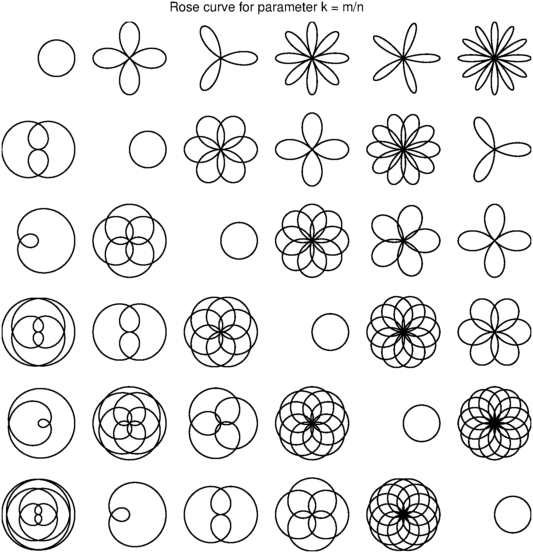
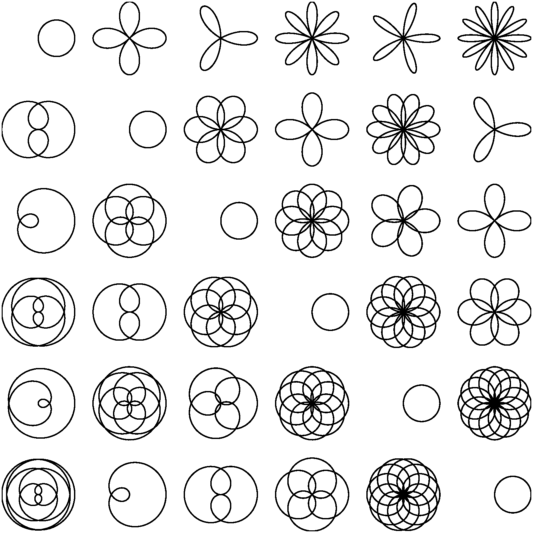
Updating temp/RoseCurves again

diff --git a/examples/temp/img/RoseCurves.html b/examples/temp/img/RoseCurves.html
@@ -2,7 +2,7 @@
 title: "Rose curves"
 layout: example
 authordate: "Hrothgar, June 2014"
-meta: "(Chebfun example geom/RoseCurves.m) [Tags: #sinewaves, #geometry]"
+meta: "(Chebfun example geom/RoseCurves.m) [Tags: #sinewaves, #geometry, #polar]"
 ---
 
 A rose curve is a sinusoid in polar coordinates, that is, $$ r = \sin(k\theta). $$ Rational values of $k$ produce closed curves, while irrational values produce curves of infinite length that fill the unit disc. If $k = 1$, then the result is a circle.
@@ -14,20 +14,38 @@ In order to plot the roses, we will paramatrize them in the complex plane using 
 <pre class="mcode-input">roseCurve = @(m,n) chebfun(@(t) cos(m/n*t).*cos(t)+1i*cos(m/n*t).*sin(t), ...
                            [0, 2*pi*lcm(m,n)]);</pre>Here is the image reproduced.
 
-<pre class="mcode-input">LW = 'linewidth'; lw = 1;
+<pre class="mcode-input">LW = 'linewidth';
 figure('position', [0 0 680 680]), hold on
 N = 6;
 for m = 1:N
     for n = 1:N
         f = roseCurve(m,n);
         offset = 2.5*m - 2.5i*n;
-        plot(f + offset, 'k-', LW, lw)
+        plot(f + offset, 'k-', LW, 1)
+    end
+end
+axis equal tight off</pre><img src="img/RoseCurves_01.png" class="figure" alt="">
+
+And here is a more ambitious image of the same kind, where the patterns along diagonals become clear.
+
+<pre class="mcode-input">tic
+clf, hold on
+N = 12;
+for m = 1:N
+    for n = 1:N
+        f = roseCurve(m,n);
+        offset = 2.5*m - 2.5i*n;
+        plot(f + offset, 'k-', LW, .8)
     end
 end
 axis equal tight off
-title('Rose curve for parameter k = m/n')</pre><img src="img/RoseCurves_01.png" class="figure" alt="">
+time = toc;</pre><img src="img/RoseCurves_02.png" class="figure" alt="">
 
+The above image did not take long to produce:
 
+<pre class="mcode-input">time</pre><pre class="mcode-output">time =
+   5.865927139000000
+</pre>
 
 ## References
 

diff --git a/examples/temp/RoseCurves.html b/examples/temp/RoseCurves.html
@@ -66,20 +66,41 @@
                            [0, 2*pi*lcm(m,n)]);</pre>
 
 <p>Here is the image reproduced.</p>
-<pre class="mcode-input">LW = 'linewidth'; lw = 1;
+<pre class="mcode-input">LW = 'linewidth';
 figure('position', [0 0 680 680]), hold on
 N = 6;
 for m = 1:N
     for n = 1:N
         f = roseCurve(m,n);
         offset = 2.5*m - 2.5i*n;
-        plot(f + offset, 'k-', LW, lw)
+        plot(f + offset, 'k-', LW, 1)
+    end
+end
+axis equal tight off</pre>
+
+<p><img src="img/RoseCurves_01.png" class="figure" alt=""></p>
+<p>And here is a more ambitious image of the same kind, where the patterns along diagonals become clear.</p>
+<pre class="mcode-input">tic
+clf, hold on
+N = 12;
+for m = 1:N
+    for n = 1:N
+        f = roseCurve(m,n);
+        offset = 2.5*m - 2.5i*n;
+        plot(f + offset, 'k-', LW, .8)
     end
 end
 axis equal tight off
-title('Rose curve for parameter k = m/n')</pre>
+time = toc;</pre>
 
-<p><img src="img/RoseCurves_01.png" class="figure" alt=""></p>
+<p><img src="img/RoseCurves_02.png" class="figure" alt=""></p>
+<p>The above image did not take long to produce:</p>
+<pre class="mcode-input">time</pre>
+
+<pre class="mcode-output">time =
+   5.865927139000000
+</pre>
+
 <h3 id="references">References</h3>
 <ol>
 <li><a href="https://en.wikipedia.org/wiki/Rose_curve">https://en.wikipedia.org/wiki/Rose_curve</a></li>

diff --git a/examples/temp/index.html b/examples/temp/index.html
@@ -86,7 +86,7 @@
             <div class='thumbwrapper'><img src='/examples/temp/img/RoseCurves_01.png' /></div>
             <h3>Rose curves</h3>
             <p>Hrothgar, June 2014
-                <span class='tags'><span href='#' class='tag'>#geometry</span>, <span href='#' class='tag'>#sinewaves</span></span>
+                <span class='tags'><span href='#' class='tag'>#geometry</span>, <span href='#' class='tag'>#polar</span>, <span href='#' class='tag'>#sinewaves</span></span>
             </p>
         </a>
     </li>

diff --git a/index.html b/index.html
@@ -194,5 +194,5 @@ plot(minx(1),minx(2),'.w')
     <script type="text/javascript" src="/js/config.js"></script>
     <script type="text/javascript" src="/js/jquery.flexslider-min.js"></script>
   </body>
-<!-- Compiled on Sunday, 22 June 2014 at 17:25. -->
+<!-- Compiled on Sunday, 22 June 2014 at 18:04. -->
 </html>

diff --git a/examples/temp/RoseCurves.m b/examples/temp/RoseCurves.m
@@ -3,7 +3,7 @@
 
 %%
 % (Chebfun example geom/RoseCurves.m)
-% [Tags: #sinewaves, #geometry]
+% [Tags: #sinewaves, #geometry, #polar]
 
 %%
 % A rose curve is a sinusoid in polar coordinates, that is,
@@ -31,18 +31,38 @@ roseCurve = @(m,n) chebfun(@(t) cos(m/n*t).*cos(t)+1i*cos(m/n*t).*sin(t), ...
 %%
 % Here is the image reproduced.
 
-LW = 'linewidth'; lw = 1;
+LW = 'linewidth';
 figure('position', [0 0 680 680]), hold on
 N = 6;
 for m = 1:N
     for n = 1:N
         f = roseCurve(m,n);
         offset = 2.5*m - 2.5i*n;
-        plot(f + offset, 'k-', LW, lw)
+        plot(f + offset, 'k-', LW, 1)
     end
 end
 axis equal tight off
-title('Rose curve for parameter k = m/n')
+
+%%
+% And here is a more ambitious image of the same kind, where the patterns
+% along diagonals become clear.
+
+tic
+clf, hold on
+N = 12;
+for m = 1:N
+    for n = 1:N
+        f = roseCurve(m,n);
+        offset = 2.5*m - 2.5i*n;
+        plot(f + offset, 'k-', LW, .8)
+    end
+end
+axis equal tight off
+time = toc;
+
+%%
+% The above image did not take long to produce:
+time
 
 %% References
 %
